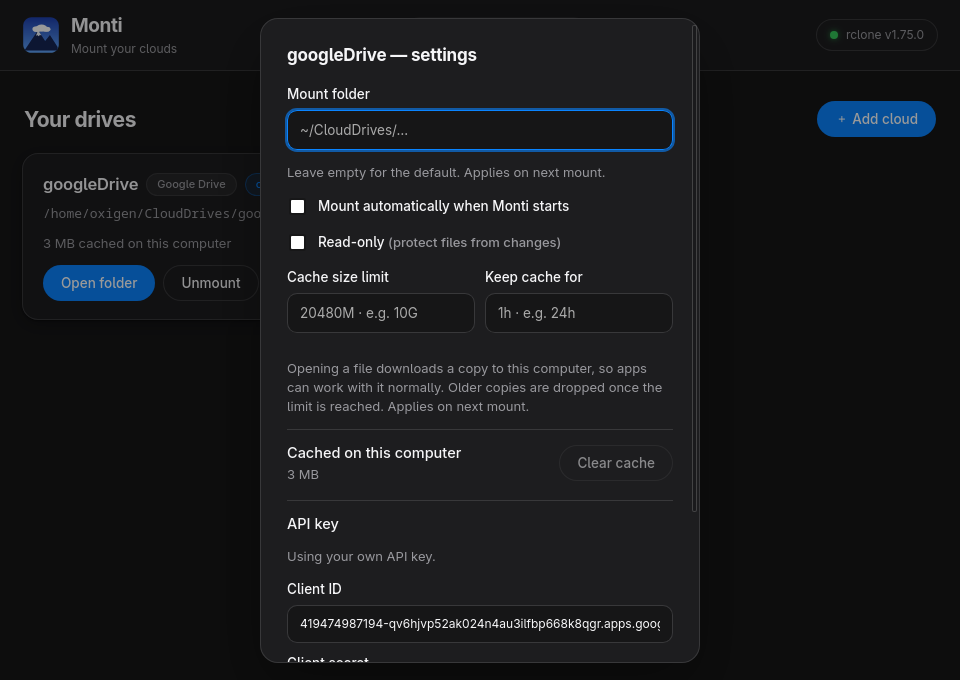
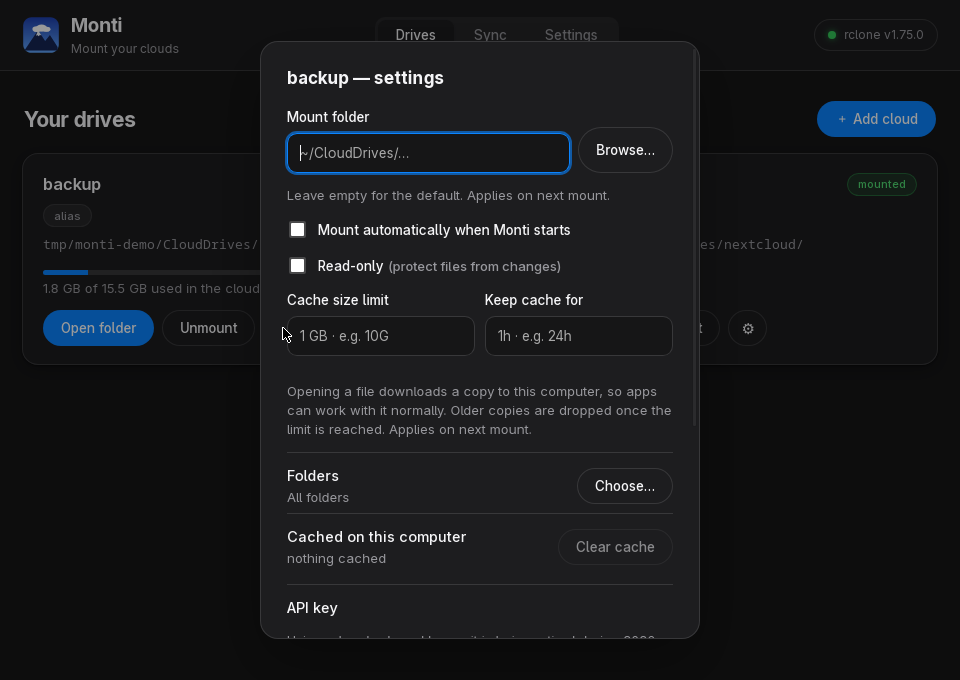
Uninstall the cache too, and screenshots that show what 0.7 does
Uninstalling left the largest thing behind: the cached copies a mounted
drive keeps of every file you opened, which live in rclone's cache
directory rather than Monti's and can run to tens of gigabytes. The
script now offers to delete them, says how big they are first, clears the
sync bookkeeping, and removes ~/CloudDrives only when it is empty — a
mount folder with files in it is either not ours or holds something that
never reached the cloud. The README gained an Uninstall section, package
installs included.

Both answers are exercised against a fake home: everything Monti's is
gone when you say yes, nothing but the app itself when you say no, and
the rclone config and a folder with unsynced files survive either way.

The screenshots are re-taken from a real run — a genuine WebDAV drive
served on localhost and a local one — and three are new: choosing
folders, synced folders, and an encrypted drive.

diff --git a/README.md b/README.md
@@ -66,8 +66,12 @@ a way to use it without becoming an rclone expert. That is Monti.
 
 | | |
 |---|---|
+| ![Your drives](docs/screenshot-main.png) | **Your drives** — every cloud as a card: mounted or not, where it lives on this computer, how full the cloud is. |
+| ![Choosing folders](docs/screenshot-folders.png) | **Only the folders you want** — tick what a drive carries. The rest stays in the cloud and never appears on this computer. |
+| ![Synced folders](docs/screenshot-sync.png) | **Synced folders** — a real local copy kept the same in both directions, for the folder you work in rather than the drive you browse. |
+| ![An encrypted drive](docs/screenshot-encrypted.png) | **An encrypted drive** — stored inside a drive you already have. Contents and names are encrypted here, and the warning about the password is not in the small print. |
 | ![Add a cloud](docs/screenshot-add-cloud.png) | **Adding a cloud** — pick a provider, give it a name, sign in. The API-key wizard is there when you want it, folded away when you don't. |
-| ![Drive settings](docs/screenshot-drive-settings.png) | **Per-drive settings** — where it mounts, whether it mounts on start, read-only mode, cache limit, and how much this drive has cached right now. |
+| ![Drive settings](docs/screenshot-drive-settings.png) | **Per-drive settings** — where it mounts, whether it mounts on start, read-only mode, cache limit, which folders it carries, and how much it has cached right now. |
 | ![Storage](docs/screenshot-storage.png) | **Storage** — what the cache costs you and how much room is left, because a cache that quietly fills the disk is the classic way rclone mounts go wrong. |
 | ![Disconnecting a drive](docs/screenshot-disconnect.png) | **Removing a drive** — the dialog lists exactly what happens, including the folder it deletes, and lets you clear the cache in the same click. |
 
@@ -125,7 +129,7 @@ curl -fsSL https://raw.githubusercontent.com/stektus/monti/main/install.sh | bas
 It checks FUSE (offers to install it), downloads the latest release, verifies it
 against the published checksums and adds Monti to your application menu.
 Everything lands in your home directory — no root files touched.
-Uninstall with `./install.sh --uninstall`.
+Uninstall with `./install.sh --uninstall` (see [Uninstall](#uninstall)).
 
 Prefer packages? Grab them from the
 [latest release](https://github.com/stektus/monti/releases/latest):
@@ -138,6 +142,36 @@ Prefer packages? Grab them from the
 
 The AppImage carries its own copy of the desktop libraries, which is why it is
 larger; the packages use the ones your system already has.
+
+### Uninstall
+
+```bash
+curl -fsSL https://raw.githubusercontent.com/stektus/monti/main/install.sh | bash -s -- --uninstall
+```
+
+It removes the app, its menu entry and the autostart file, then asks about
+the two things worth a question:
+
+- **App data** — the engine Monti downloaded, its logs and the list of synced
+  folders (`~/.local/share/io.github.stektus.monti`).
+- **Cached file copies** — what mounted drives kept on disk from the files you
+  opened (`~/.cache/rclone/vfs`). It tells you the size first; these are
+  copies, the originals are in your cloud.
+
+It also clears the sync bookkeeping (`~/.cache/rclone/bisync`) and removes
+`~/CloudDrives` **only if it is empty** — a mount folder with files in it is
+left alone, because that is either not ours or something that never reached
+the cloud. Your rclone config (`~/.config/rclone`) and everything in your
+clouds are never touched.
+
+Installed a package instead? Remove it the way you installed it, then run the
+same script for the user-level leftovers:
+
+```bash
+sudo apt remove monti        # Debian, Ubuntu, Mint
+sudo dnf remove monti        # Fedora, openSUSE
+paru -R monti-bin            # Arch (AUR)
+```
 
 ### Rather not pipe a script into bash?
 
